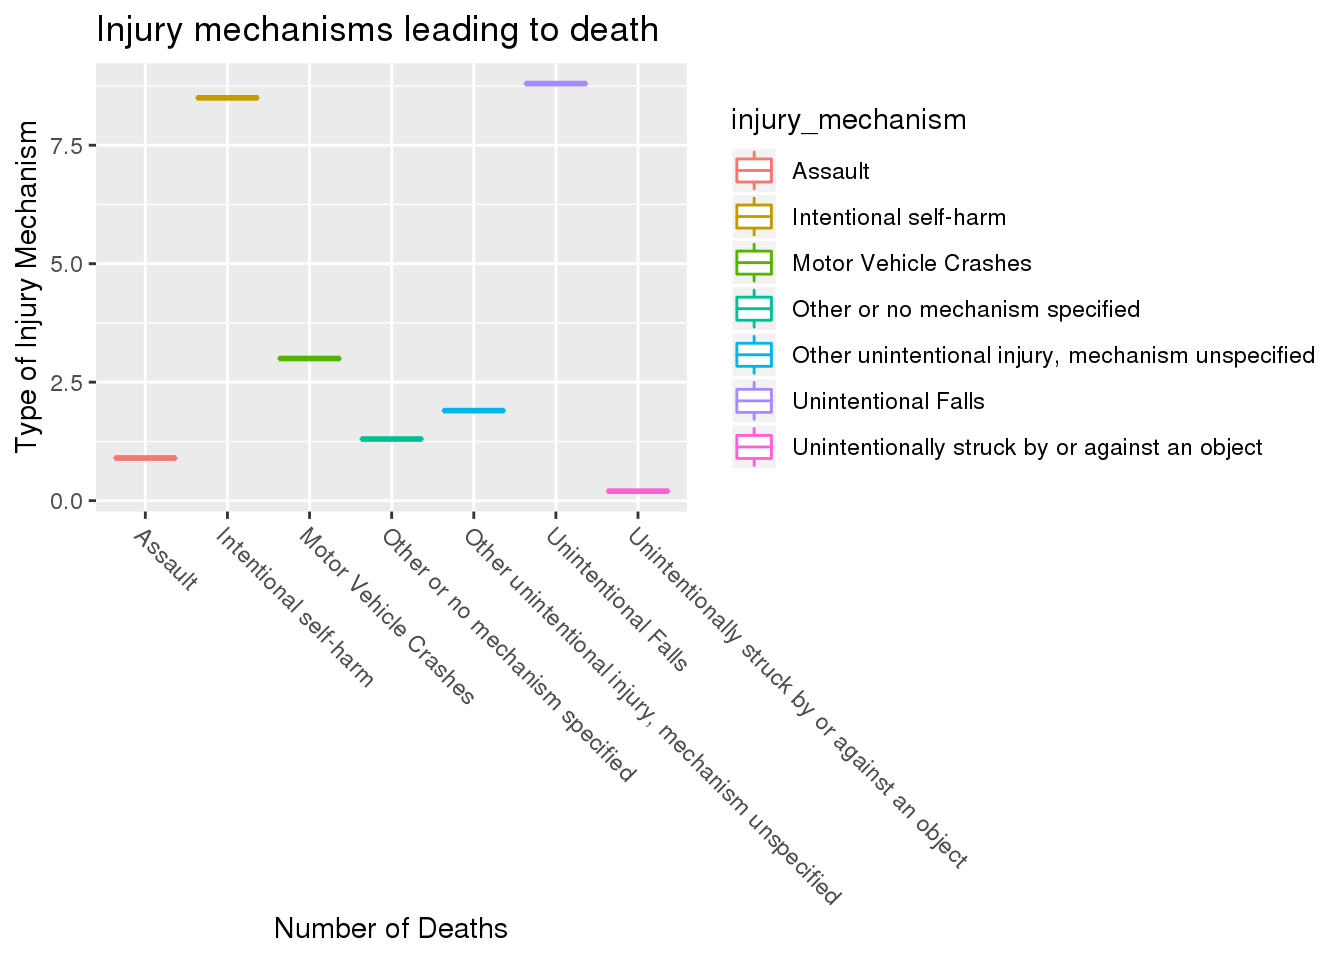
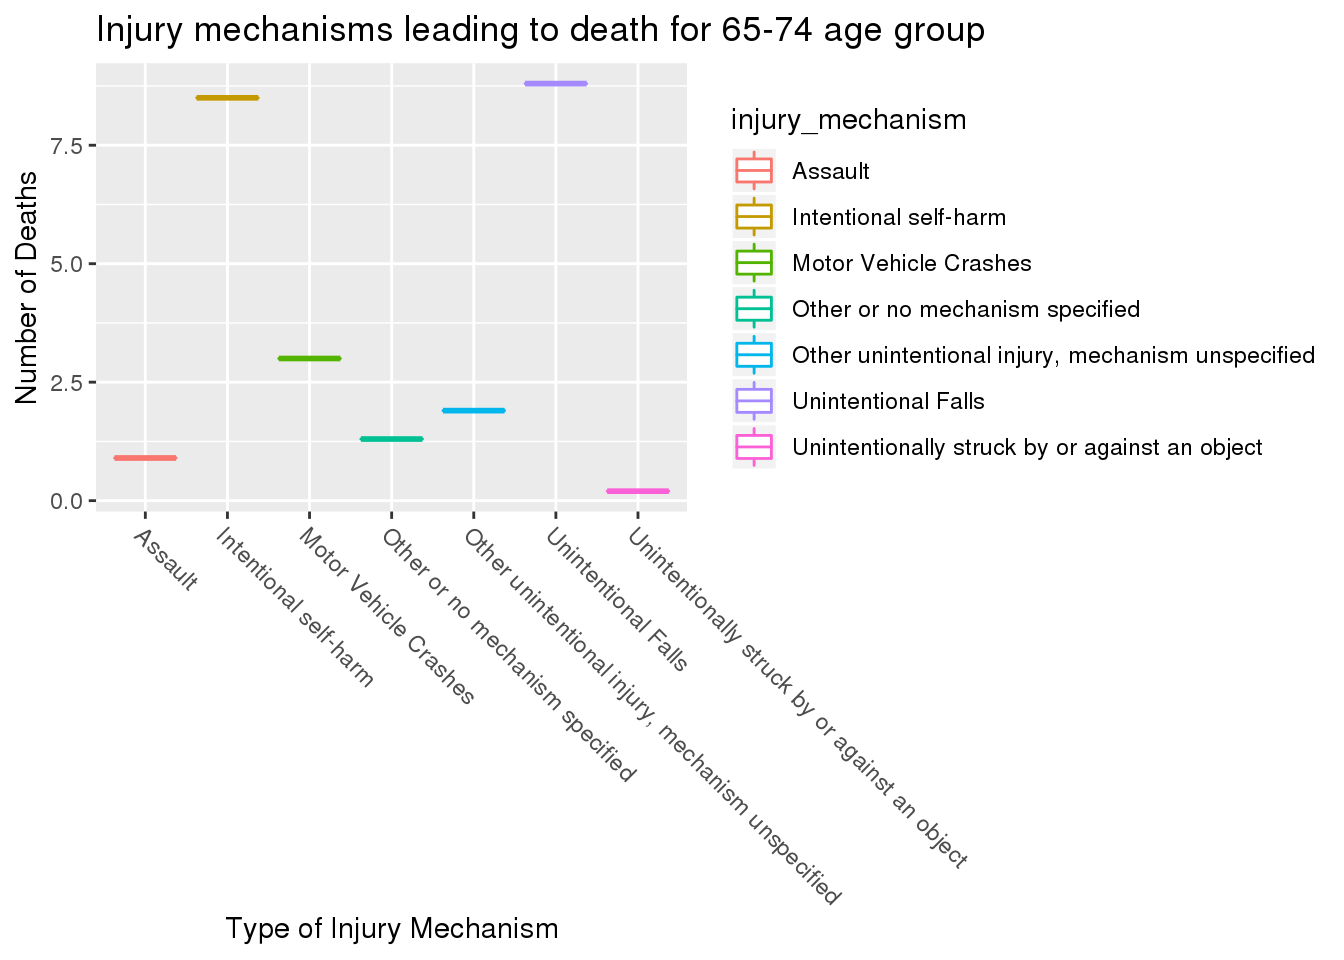
updating TBI page

diff --git a/content/post/2020-12-09-tbi/index.html b/content/post/2020-12-09-tbi/index.html
@@ -43,17 +43,9 @@ ggplot(data =dat)+
   xlab(&quot;Age Group&quot;) +
   ylab(&quot;Number of Injuries&quot;) +
   theme(axis.text.x = element_text(angle =- 45, hjust = 0))+
-  ggtitle(&quot;Most common injurt mechanisms per age group&quot;)</code></pre>
+  ggtitle(&quot;Most common injury mechanisms per age group&quot;)</code></pre>
 <pre><code>## Warning: Removed 11 rows containing missing values (geom_point).</code></pre>
-<p><img src="index_files/figure-html/unnamed-chunk-4-1.png" width="672" /></p>
-<pre class="r"><code>ggplot(data =dat)+
-  geom_point(mapping = aes(x = age_group, y = number_est, color = injury_mechanism ))+
-  xlab(&quot;Age Group&quot;) +
-  ylab(&quot;Number of Injuries&quot;) +
-  theme(axis.text.x = element_text(angle =- 45, hjust = 0))+
-  ggtitle(&quot;Most common injurt mechanisms per age group&quot;)</code></pre>
-<pre><code>## Warning: Removed 11 rows containing missing values (geom_point).</code></pre>
-<p><img src="index_files/figure-html/unnamed-chunk-4-2.png" width="672" />
+<p><img src="index_files/figure-html/unnamed-chunk-4-1.png" width="672" />
 Unintentional falls is one of the most substantial injury mechanisms in the data, with it being the greatest reason for almost all the age groups, and being the greatest out of the total group by a large margin. Next most prominent injury mechanism is being unintentionally struck by or against an object, being the second largest for the most of the age groups as well. From this, it appears that there is no correlation between the different types of injury mechanism and the different age groups.</p>
 <pre class="r"><code>glimpse(dat2)</code></pre>
 <pre><code>## Observations: 450
@@ -118,9 +110,9 @@ The two graphs above show the rates of death for the different TBI mechanisms fo
   ggplot(aes( x= type ,y= rate_est, color = injury_mechanism))+
   geom_boxplot(mapping = aes(x = injury_mechanism, y= rate_est, color = injury_mechanism))+
   theme(axis.text.x = element_text(angle =- 45, hjust = 0))+
-  ylab(&quot;Type of Injury Mechanism&quot;) +
-  xlab(&quot;Number of Deaths&quot;) +
-  ggtitle(&quot;Injury mechanisms leading to death&quot;)
+  xlab(&quot;Type of Injury Mechanism&quot;) +
+  ylab(&quot;Number of Deaths&quot;) +
+  ggtitle(&quot;Injury mechanisms leading to death for 75+ age group&quot;)
 graph2</code></pre>
 <p><img src="index_files/figure-html/unnamed-chunk-10-1.png" width="672" /></p>
 <pre class="r"><code>graph3&lt;-filter(dat, type %in% c(&quot;Deaths&quot; ))%&gt;%
@@ -128,9 +120,9 @@ graph2</code></pre>
   ggplot(aes( x= type ,y= rate_est, color = injury_mechanism))+
   geom_boxplot(mapping = aes(x = injury_mechanism, y= rate_est, color = injury_mechanism))+
   theme(axis.text.x = element_text(angle =- 45, hjust = 0))+
-  ylab(&quot;Type of Injury Mechanism&quot;) +
-  xlab(&quot;Number of Deaths&quot;) +
-  ggtitle(&quot;Injury mechanisms leading to death&quot;)
+  xlab(&quot;Type of Injury Mechanism&quot;) +
+  ylab(&quot;Number of Deaths&quot;) +
+  ggtitle(&quot;Injury mechanisms leading to death for 65-74 age group&quot;)
 
 graph3</code></pre>
 <p><img src="index_files/figure-html/unnamed-chunk-11-1.png" width="672" /></p>
@@ -139,9 +131,9 @@ graph3</code></pre>
   ggplot(aes( x= type ,y= rate_est, color = injury_mechanism))+
   geom_boxplot(mapping = aes(x = injury_mechanism, y= rate_est, color = injury_mechanism))+
   theme(axis.text.x = element_text(angle =- 45, hjust = 0))+
-  ylab(&quot;Type of Injury Mechanism&quot;) +
-  xlab(&quot;Number of Deaths&quot;) +
-  ggtitle(&quot;Injury mechanisms leading to death&quot;)
+  xlab(&quot;Type of Injury Mechanism&quot;) +
+  ylab(&quot;Number of Deaths&quot;) +
+  ggtitle(&quot;Injury mechanisms leading to death for 0-17 age group&quot;)
 
 graph4</code></pre>
 <pre><code>## Warning: Removed 1 rows containing non-finite values (stat_boxplot).</code></pre>
@@ -151,9 +143,9 @@ graph4</code></pre>
   ggplot(aes( x= type ,y= rate_est, color = injury_mechanism))+
   geom_boxplot(mapping = aes(x = injury_mechanism, y= rate_est, color = injury_mechanism))+
   theme(axis.text.x = element_text(angle =- 45, hjust = 0))+
-  ylab(&quot;Type of Injury Mechanism&quot;) +
-  xlab(&quot;Number of Deaths&quot;) +
-  ggtitle(&quot;Injury mechanisms leading to death&quot;)
+  xlab(&quot;Type of Injury Mechanism&quot;) +
+  ylab(&quot;Number of Deaths&quot;) +
+  ggtitle(&quot;Injury mechanisms leading to death for 25-34 age group&quot;)
 
 graph5</code></pre>
 <p><img src="index_files/figure-html/unnamed-chunk-13-1.png" width="672" />
